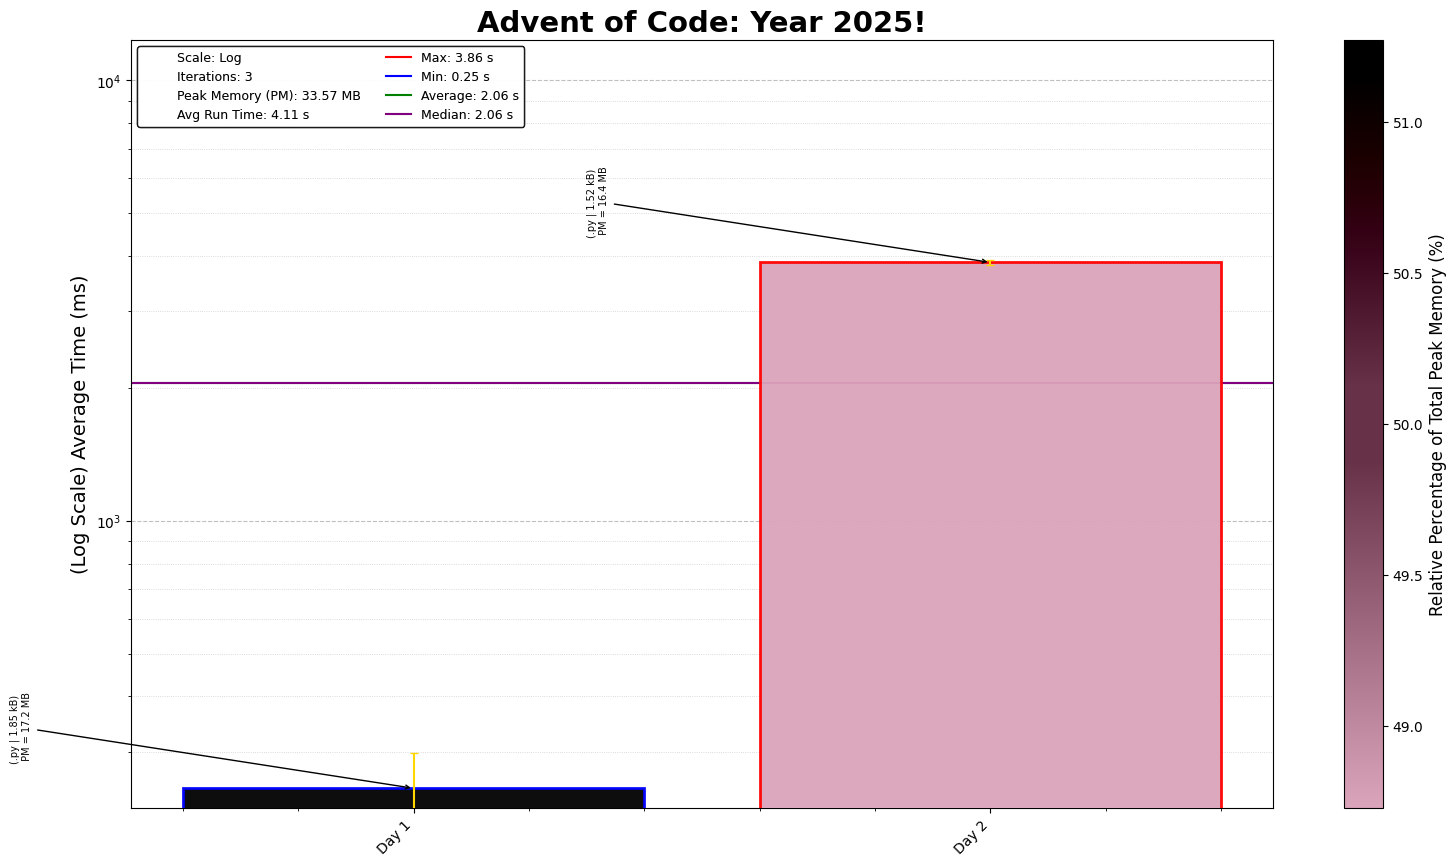
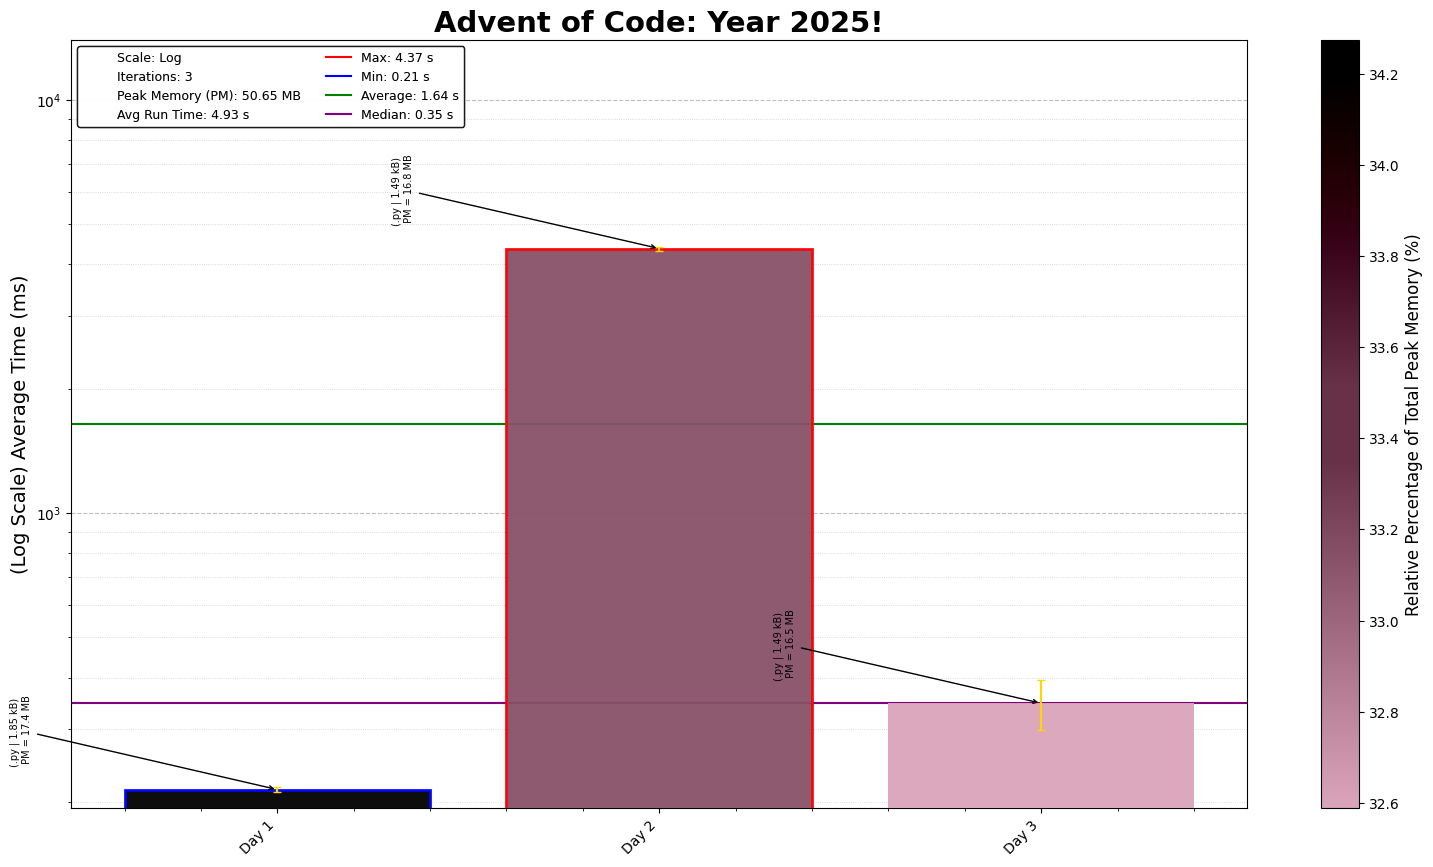
AoC 2025 Day 03: Lobby

diff --git a/2025/03/2025Day03.py b/2025/03/2025Day03.py
@@ -1,0 +1,37 @@
+"""Advent of Code - Day 3, Year 2025
+Solution Started: December 3, 2025
+Puzzle Link: https://adventofcode.com/2025/day/3
+Solution by: Abbas Moosajee
+Brief: [Lobby]"""
+
+#!/usr/bin/env python3
+from pathlib import Path
+
+# Load input file
+input_file = "Day03_input.txt"
+input_path = Path(__file__).parent / input_file
+
+with input_path.open("r", encoding="utf-8") as f:
+    data = f.read().splitlines()
+
+def max_jolts_basic(battery_list):
+    max_jolts = []
+    for battery in battery_list:
+        batteries_avail = list(map(int, list(battery)))
+        first_battery = max(batteries_avail[:-1])
+        first_idx = batteries_avail.index(first_battery)
+        second_battery = max(batteries_avail[first_idx + 1:])
+        max_jolts.append(int(f"{first_battery}{second_battery}"))
+    return sum(max_jolts)
+
+def maximise_jolts(battery, array_size):
+    memory = [0] * (array_size + 1)
+    for bat in battery:
+        memory = [0] + [
+            max(memory[n + 1], memory[n] * 10 + int(bat))
+            for n in range(array_size)
+        ]
+    return memory[array_size]
+
+print("AoC Day 3, P1:", sum(maximise_jolts(battery,  2) for battery in data))
+print("AoC Day 3, P2:", sum(maximise_jolts(battery, 12) for battery in data))

diff --git a/2025/03/aoc_golf_03.py b/2025/03/aoc_golf_03.py
@@ -1,0 +1,22 @@
+
+jolts_p1 = 0
+for battery in open(0).read().splitlines():
+    memory = [0] * 3
+    for bat in battery:
+        memory = [0] + [
+            max(memory[n + 1], memory[n] * 10 + int(bat))
+            for n in range(2)
+        ]
+    jolts_p1 += memory[2]
+print(jolts_p1)
+
+jolts_p2 = 0
+for battery in open(0).read().splitlines():
+    memory = [0] * 13
+    for bat in battery:
+        memory = [0] + [
+            max(memory[n + 1], memory[n] * 10 + int(bat))
+            for n in range(12)
+        ]
+    jolts_p2 += memory[12]
+print(jolts_p2)

diff --git a/2025/README_2025.md b/2025/README_2025.md
@@ -6,3 +6,4 @@ This repository contains coding solutions for the 2025 Advent of Code.
 
 1. **Day 1- Secret Entrance**: *Python* | Basic python code for rotating a list representing a dial, BUT basic is good.
 2. **Day 2 - Gift Shop** *Python* | Identifying and counting invalid ids, but remember duplicating can be avoided using sets.
+3. **Day 3 - Lobby** | *Python* | Maximising the number built in a list of numbers
